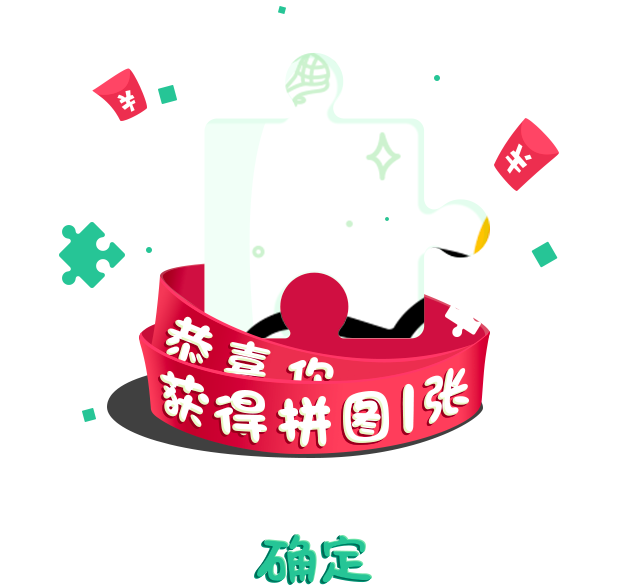
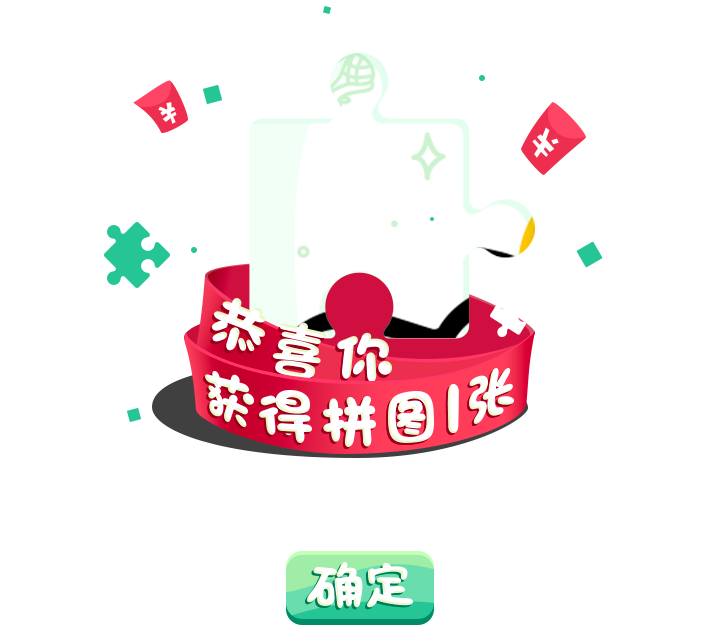
change popup style

diff --git a/static/wap/activity/0407/css/act-0405-3.css b/static/wap/activity/0407/css/act-0405-3.css
@@ -120,49 +120,8 @@ p {
 	filter: alpha(opacity=60);
 	opacity: 0.3 !important;
 }
-.act-popup {
-	position: fixed;
-	top: 0;
-	right: 0;
-	bottom: 0;
-	left: 0;
-	z-index: 1050;
-	overflow-x: hidden;
-	overflow-y: auto;
-	background: #000;
-	opacity: .7;
-}
-.act-popup .act-customer-img {
-	border-radius: 50% 50%;
-	width: 36%;
-	margin: 10% 32%;
-}
-.act-popup img {
-	width: 80%;
-	margin-left: 10%;
-	margin-top: 15%;
-}
 .complete-cards {
 	width: 100%;
-}
-.act-cash-get {
-	width: 80%;
-	margin-left: 10%;
-	margin-top: 20%;
-	background-image: url('../img/cash_bg.png');
-	background-size: 100% 100%;
-	height: 239px;
-}
-.act-popup p {
-	text-align: center;
-	font-size: 12px;
-	color: white;
-}
-.act-cash-get p {
-	width: 20%;
-	line-height: 180px;
-	margin-left: 40%;
-	font-size: 20px;
 }
 .complete-get {
 	width: 60%;

diff --git a/static/wap/activity/0407/css/common.css b/static/wap/activity/0407/css/common.css
@@ -70,3 +70,38 @@
 .act-icon {
 	width: 50%;
 }
+.act-popup {
+	position: fixed;
+	top: 0;
+	right: 0;
+	bottom: 0;
+	left: 0;
+	z-index: 1050;
+	overflow-x: hidden;
+	overflow-y: auto;
+	background-color: rgba(0,0,0,0.7);
+}
+.act-popup .act-customer-img {
+	border-radius: 50% 50%;
+	width: 36%;
+	margin: 8% 32%;
+}
+.act-popup p {
+	text-align: center;
+	font-size: 12px;
+	color: white;
+}
+.act-cash-get {
+	width: 80%;
+	margin-left: 10%;
+	margin-top: 20%;
+	background-image: url('../img/cash_bg.png');
+	background-size: 100% 100%;
+	height: 239px;
+}
+.act-cash-get p {
+	width: 20%;
+	line-height: 180px;
+	margin-left: 40%;
+	font-size: 20px;
+}

diff --git a/static/wap/activity/0407/css/act-0405-2.css b/static/wap/activity/0407/css/act-0405-2.css
@@ -51,20 +51,3 @@ p {
 	font-size: 12px;
 	margin-top: 0;
 }
-.act-popup {
-	position: fixed;
-	top: 0;
-	right: 0;
-	bottom: 0;
-	left: 0;
-	z-index: 1050;
-	overflow-x: hidden;
-	overflow-y: auto;
-	background: #000;
-	opacity: .7;
-}
-.act-popup img {
-	width: 80%;
-	margin-left: 10%;
-	margin-top: 15%;
-}
